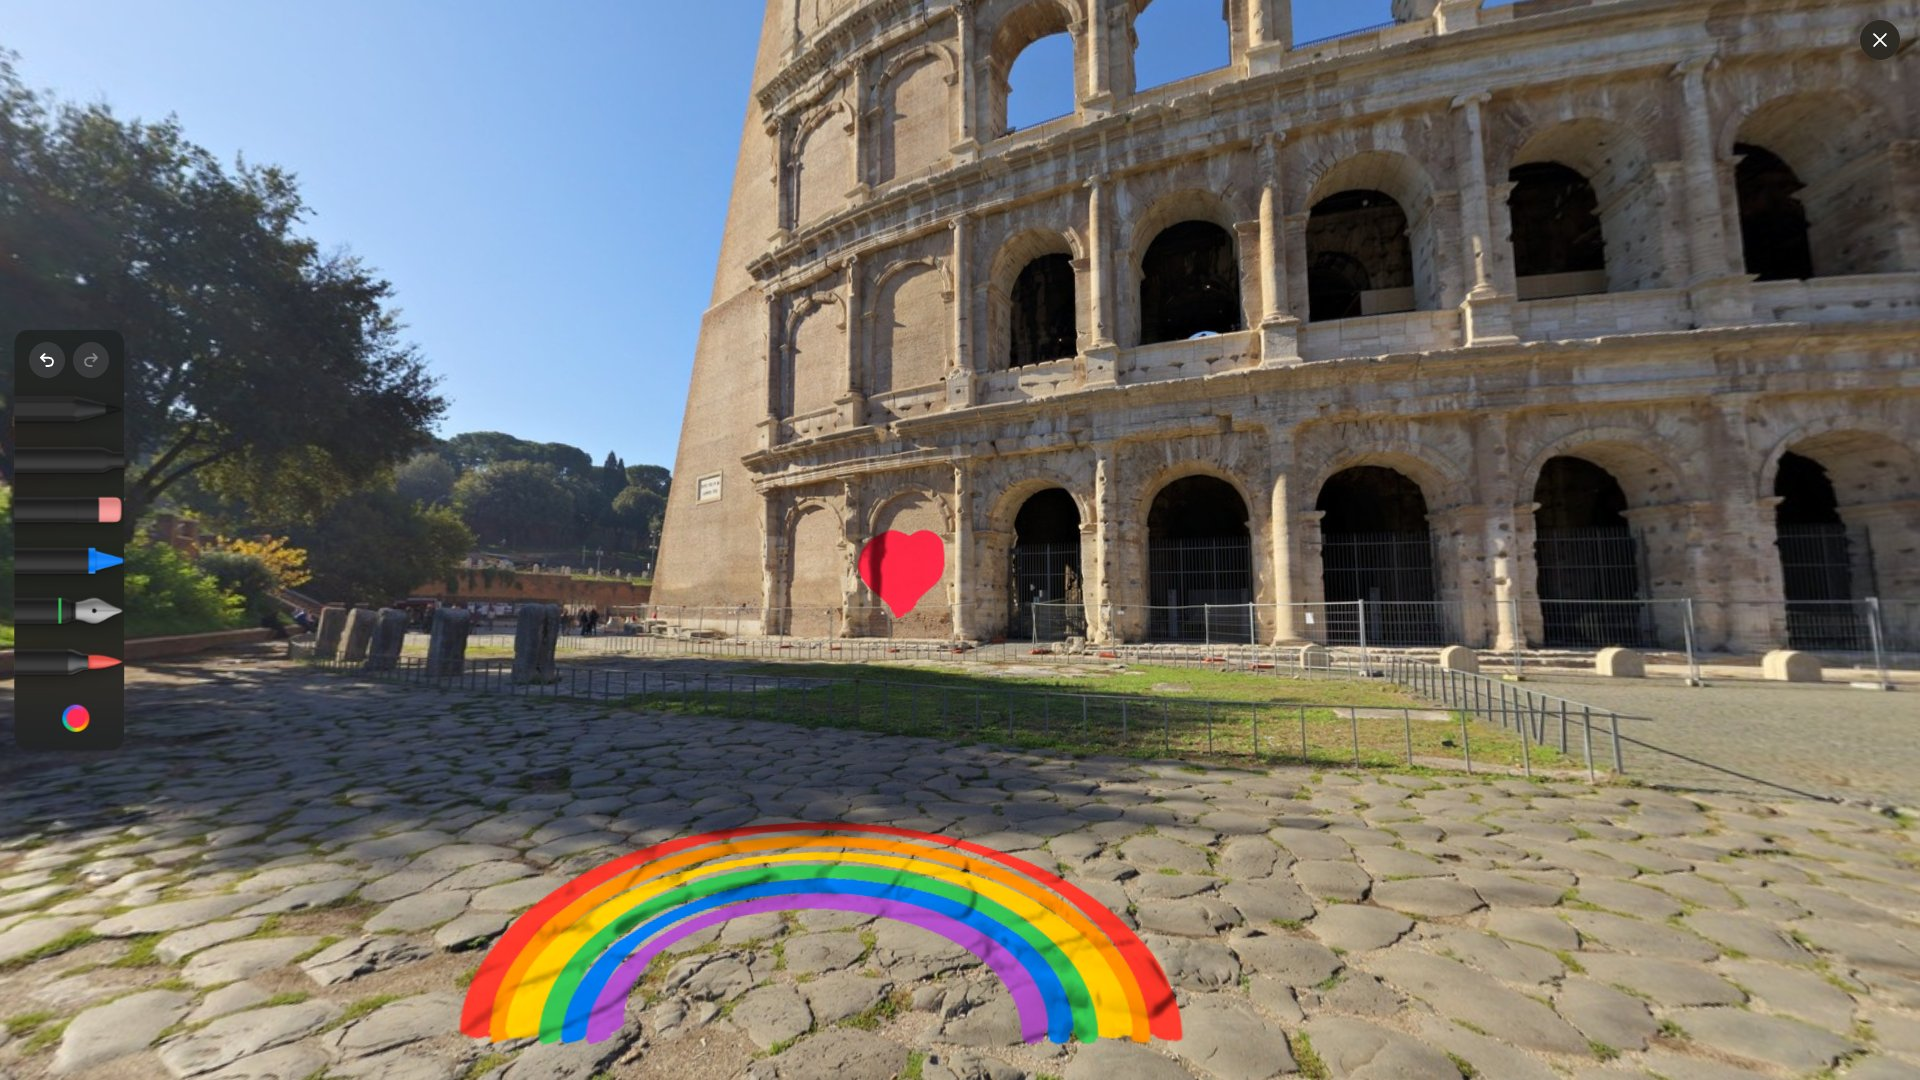
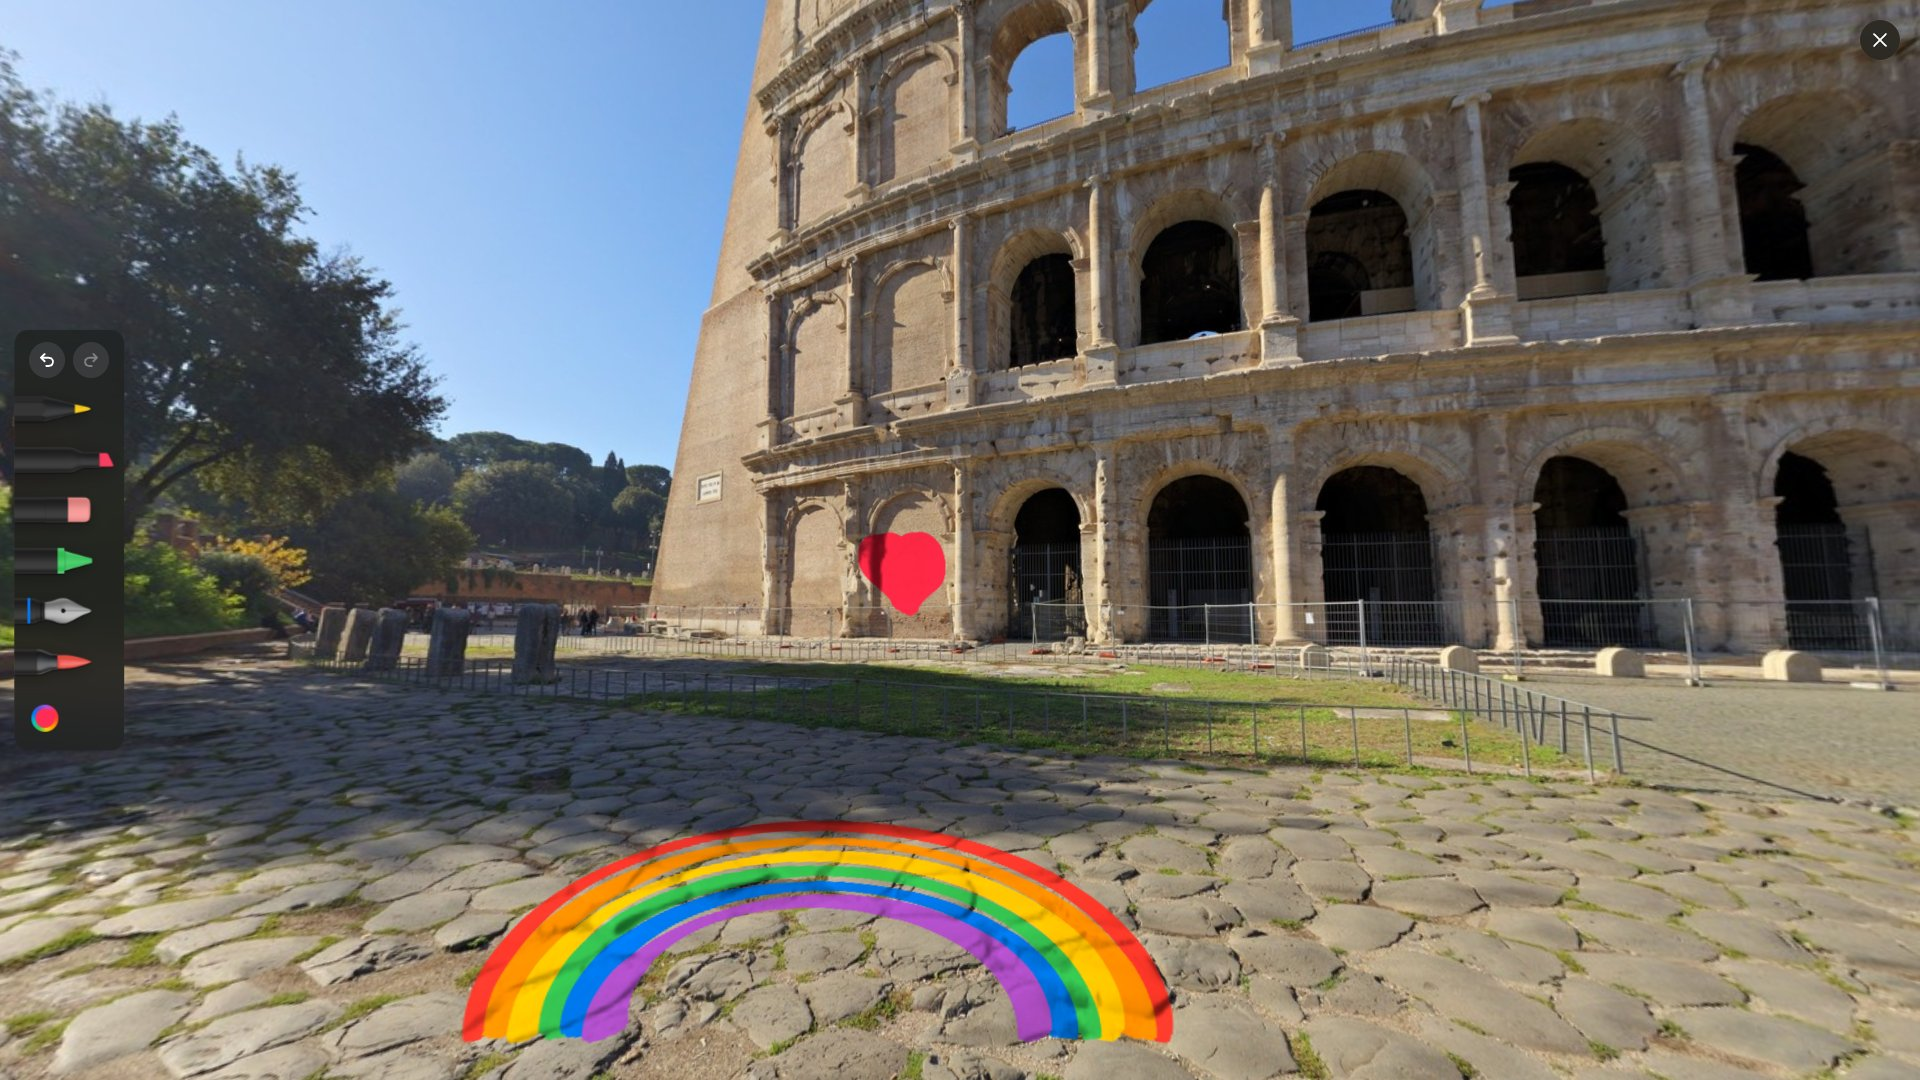
fix: tabbing through the pens no longer scrolls them out of place; a new picture

diff --git a/src/view/view.css b/src/view/view.css
@@ -736,7 +736,7 @@ html.short-screen .loading-overlay { position: absolute; bottom: auto; height: v
     padding: 15px 14px calc(15px + env(safe-area-inset-bottom, 0px));
     /* !important: useSquircle writes border-radius 0 / overflow visible inline */
     border-radius: 0 !important;
-    overflow: hidden !important;
+    overflow: clip !important; /* not hidden: focusing a pen would scroll it */
     clip-path: none !important; /* full-width strip, not the desktop squircle */
     background: rgba(226, 226, 231, 0.78);
     backdrop-filter: blur(18px) saturate(1.3);
@@ -799,7 +799,7 @@ html.short-screen .loading-overlay { position: absolute; bottom: auto; height: v
   /* Floating pill (as before the sidebar): inset from the edge, frosted, pens rising out of its
      edge and clipped by its rounded outline. */
   /* rounded rectangle with the main menu's 14px corners; left edge lined up with undo/redo */
-  .toolbar { left: calc((14px + env(safe-area-inset-left, 0px)) / var(--toolbar-scale)); border-radius: calc(14px / var(--toolbar-scale)) !important; clip-path: none !important; overflow: hidden !important; background: rgba(226, 226, 231, 0.78); backdrop-filter: blur(18px) saturate(1.3); -webkit-backdrop-filter: blur(18px) saturate(1.3); }
+  .toolbar { left: calc((14px + env(safe-area-inset-left, 0px)) / var(--toolbar-scale)); border-radius: calc(14px / var(--toolbar-scale)) !important; clip-path: none !important; overflow: clip !important; background: rgba(226, 226, 231, 0.78); backdrop-filter: blur(18px) saturate(1.3); -webkit-backdrop-filter: blur(18px) saturate(1.3); }
   /* tighter ends: ~14px from the rounded border to the first pen / colour dot (on screen) */
   .toolbar { padding-left: 12px; padding-right: 12px; }
   .toolbar .pen-container { margin-left: 0; }

diff --git a/tests/browser/drawing.spec.ts b/tests/browser/drawing.spec.ts
@@ -122,3 +122,14 @@ test('on a phone one finger paints and two look around', async ({ browser }) => 
   await p.waitForTimeout(800);
   await expect(p.locator('[aria-label="Undo"]')).toBeDisabled();
 });
+
+for (const [name, options] of Object.entries({ desktop: {}, phone: { viewport: { width: 393, height: 780 }, hasTouch: true, isMobile: true } })) {
+  test(`the pens stay where they are when you tab through them (${name})`, async ({ browser }) => {
+    const p = await visit(browser, { alone: true, ...options });
+    const places = () => p.evaluate(() => [...document.querySelectorAll('.pen-btn:not(.active), .color-picker-swatch')].map(e => { const r = e.getBoundingClientRect(); return [Math.round(r.x), Math.round(r.y)]; }));
+    const before = await places();
+    for (let k = 0; k < 14; k++) await p.keyboard.press('Tab');
+    await p.waitForTimeout(500);
+    expect(await places()).toEqual(before);
+  });
+}

diff --git a/src/view/Toolbar.tsx b/src/view/Toolbar.tsx
@@ -96,6 +96,7 @@ function useScrollFade(ref: RefObject<HTMLElement | null>): string {
     const el = ref.current;
     if (!el) return;
     const update = () => {
+      el.scrollTop = 0; // only sideways (focusing a pen would scroll it up too)
       const left = el.scrollLeft > 2, right = el.scrollWidth - el.clientWidth - el.scrollLeft > 2;
       setFade(!left && !right ? 'none'
         : `linear-gradient(to right, ${left ? 'transparent, black 40px' : 'black calc(100% - 40px)'}${left && right ? ', black calc(100% - 40px)' : ''}${right ? ', transparent' : ''})`);
